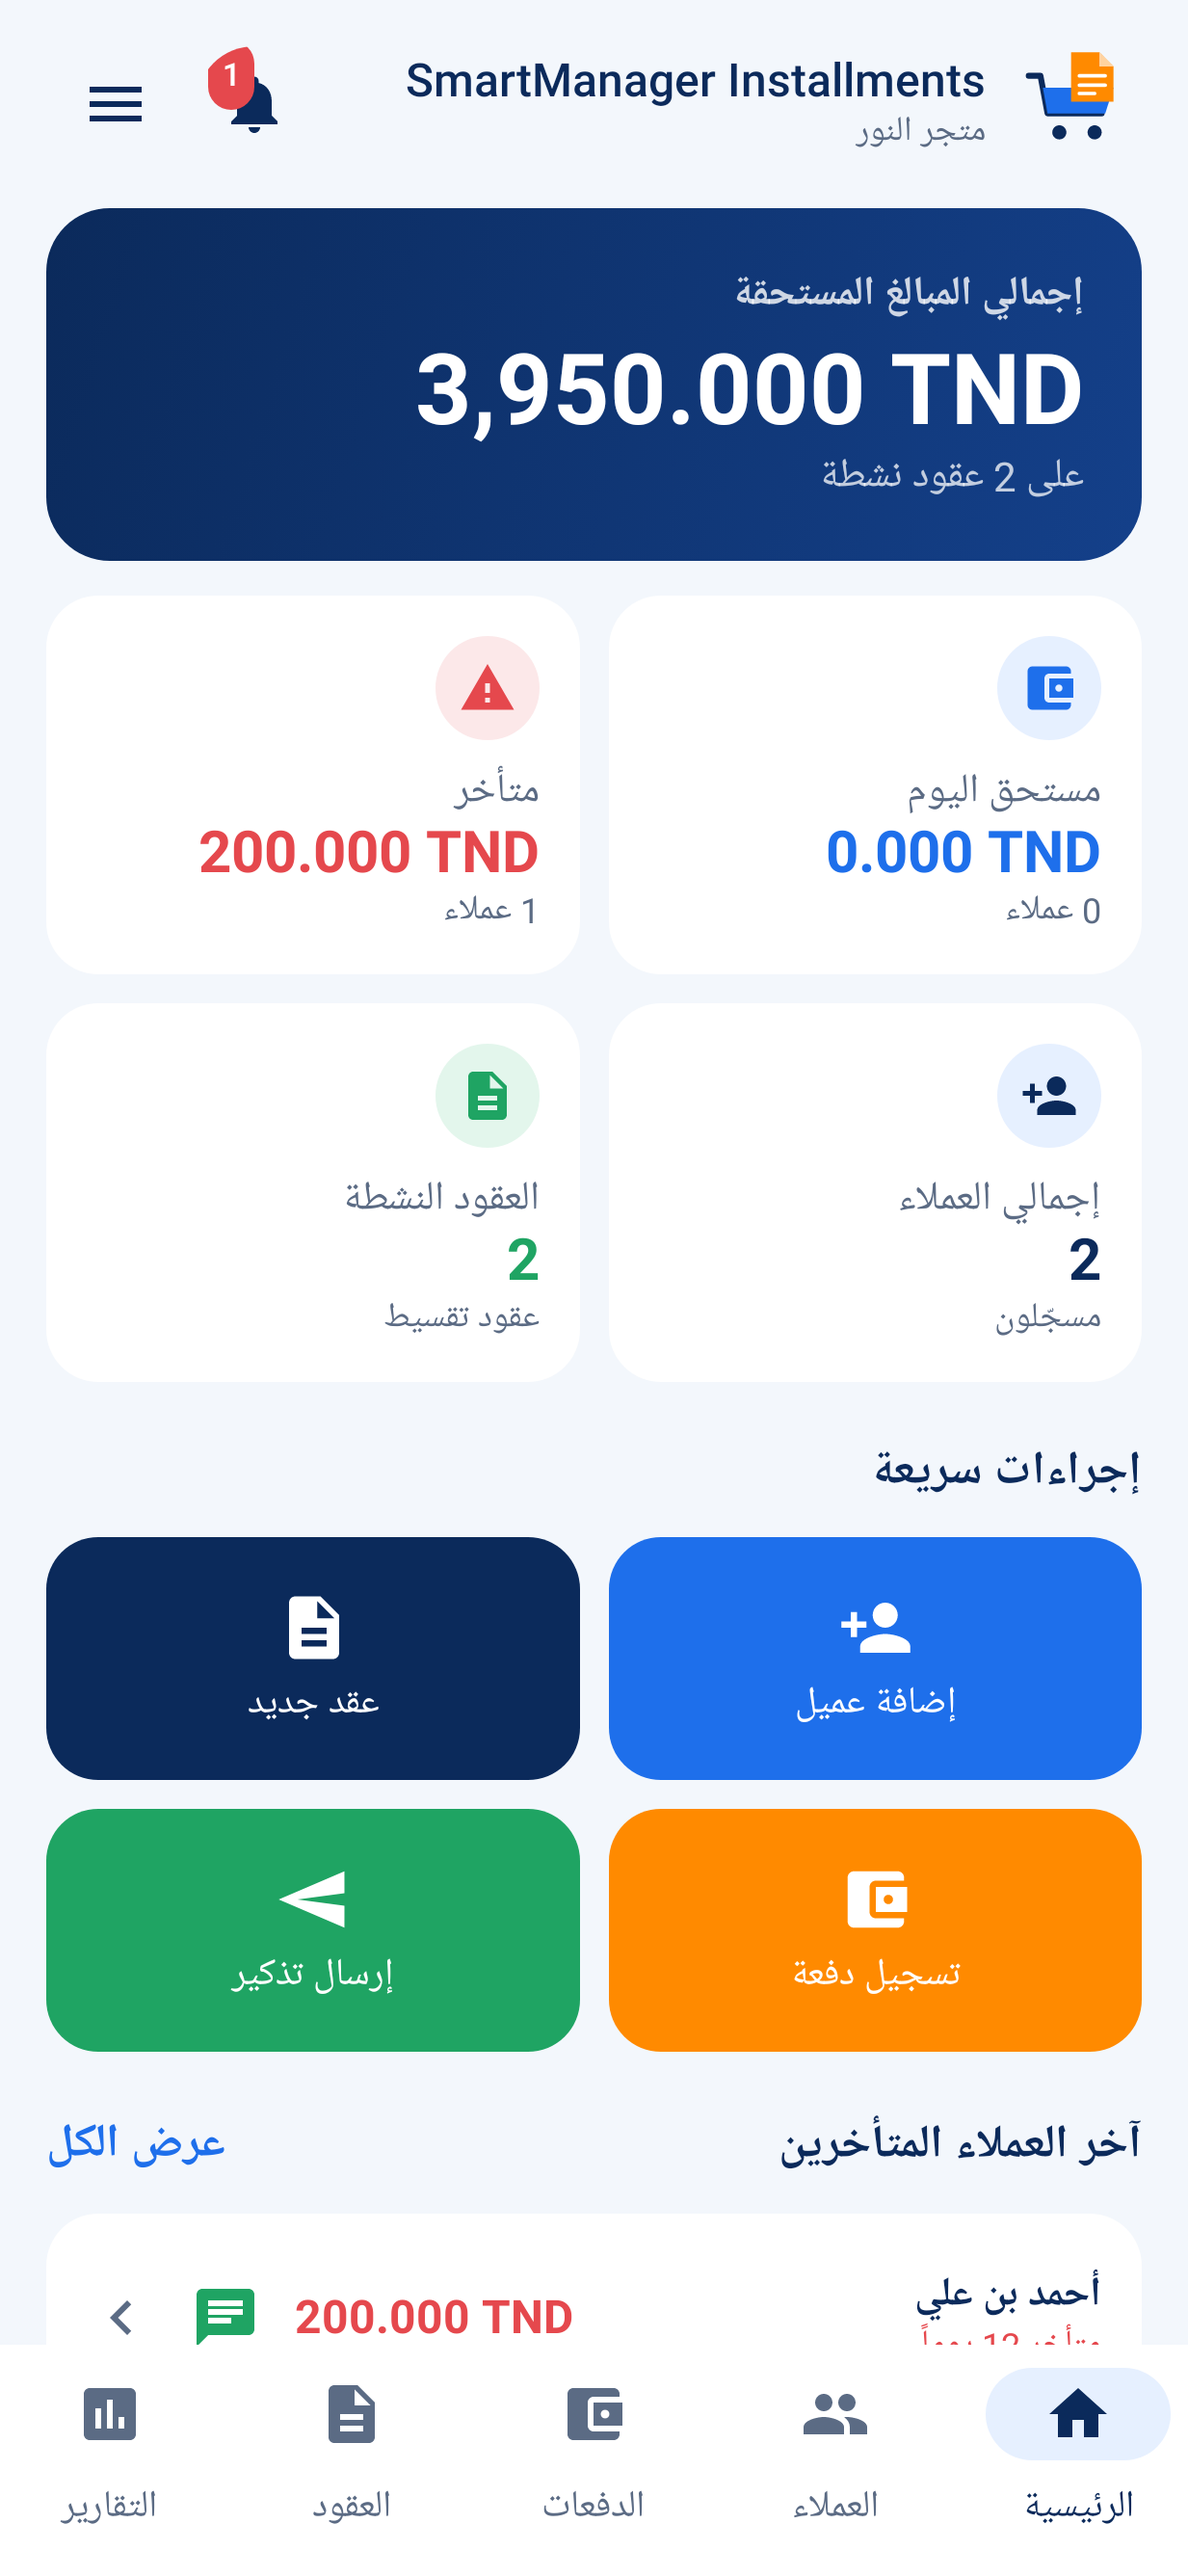
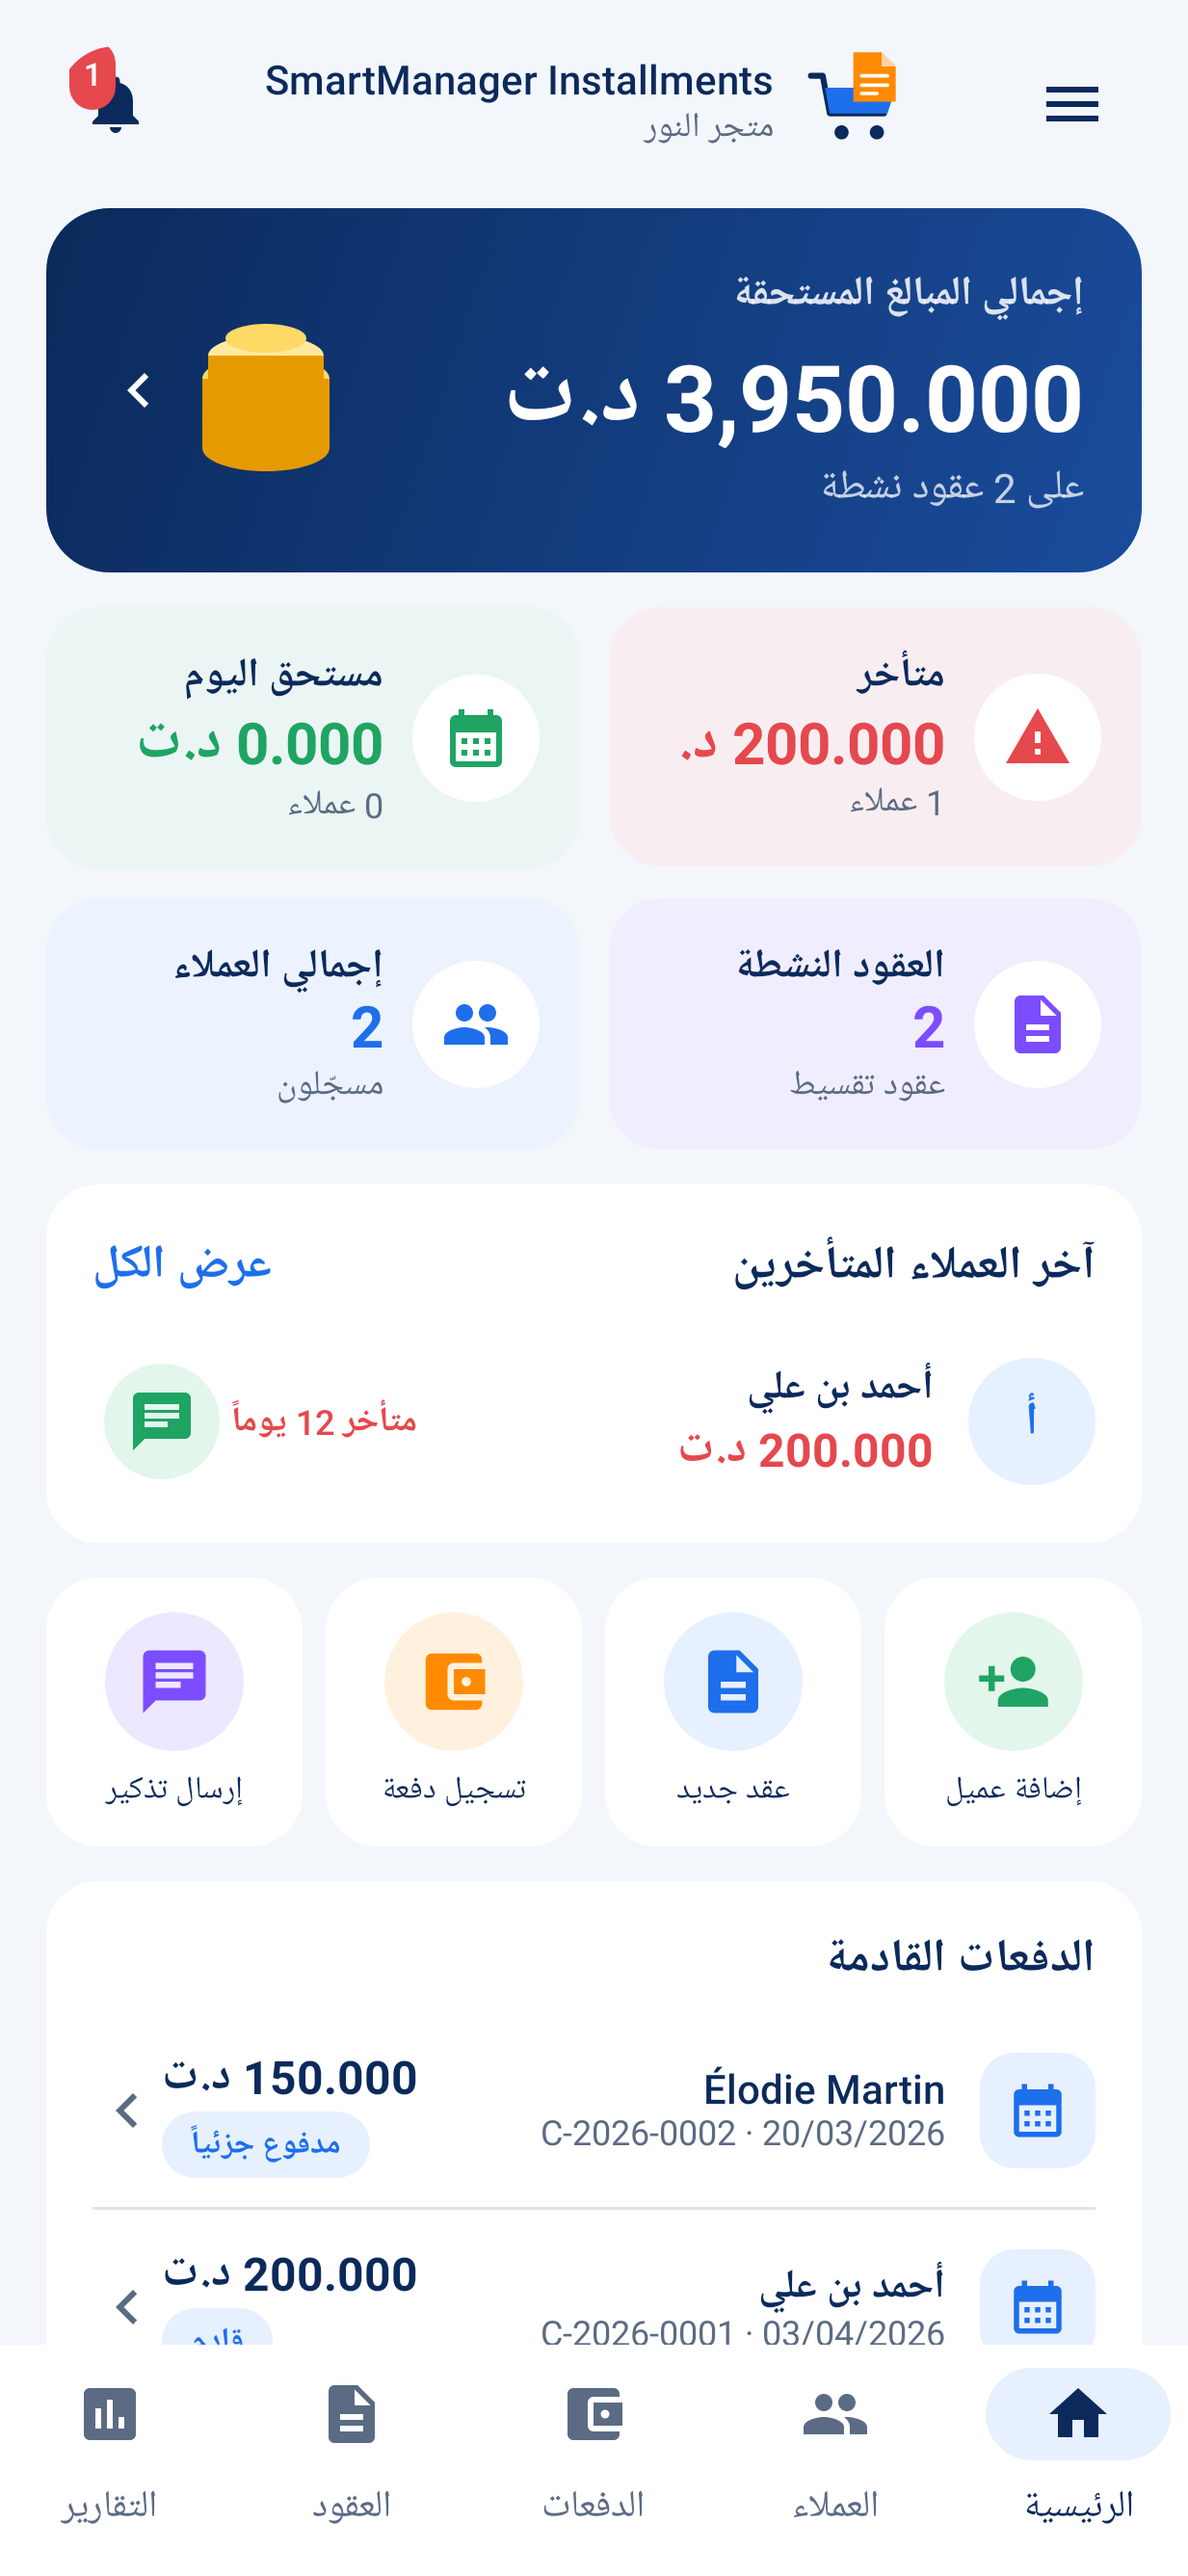
Dashboard cards: value gets full width (no clipped currency symbol); coin illustration edges; refresh screenshots

diff --git a/app/src/main/java/com/smartmanager/installments/ui/dashboard/DashboardScreen.kt b/app/src/main/java/com/smartmanager/installments/ui/dashboard/DashboardScreen.kt
@@ -283,13 +283,15 @@ fun StatusBadge(status: InstallmentStatus) {
 @Composable
 private fun SummaryCard(m: Modifier, title: String, value: String, sub: String, color: Color, soft: Color, icon: ImageVector, onClick: () -> Unit) {
     SMCard(m, onClick = onClick, container = soft.copy(alpha = 0.55f)) {
-        Row(Modifier.padding(14.dp), verticalAlignment = Alignment.CenterVertically) {
-            Box(Modifier.size(44.dp).background(Color.White, CircleShape), contentAlignment = Alignment.Center) { Icon(icon, null, tint = color, modifier = Modifier.size(24.dp)) }
-            Column(Modifier.weight(1f).padding(horizontal = 10.dp)) {
-                Text(title, style = MaterialTheme.typography.bodyMedium, color = Brand.Navy, fontWeight = FontWeight.SemiBold, maxLines = 1)
-                Text(value, style = MaterialTheme.typography.titleLarge, color = color, maxLines = 1)
-                Text(sub, style = MaterialTheme.typography.bodySmall, color = Brand.Muted, maxLines = 1)
+        Column(Modifier.padding(14.dp)) {
+            // icon + title share the first line; the value gets the full card width so amounts with a currency symbol never clip
+            Row(verticalAlignment = Alignment.CenterVertically) {
+                Box(Modifier.size(36.dp).background(Color.White, CircleShape), contentAlignment = Alignment.Center) { Icon(icon, null, tint = color, modifier = Modifier.size(20.dp)) }
+                Text(title, Modifier.weight(1f).padding(horizontal = 8.dp), style = MaterialTheme.typography.bodyMedium, color = Brand.Navy, fontWeight = FontWeight.SemiBold, maxLines = 1)
             }
+            Spacer(Modifier.height(6.dp))
+            Text(value, style = MaterialTheme.typography.titleLarge, color = color, maxLines = 1, softWrap = false)
+            Text(sub, style = MaterialTheme.typography.bodySmall, color = Brand.Muted, maxLines = 1)
         }
     }
 }
